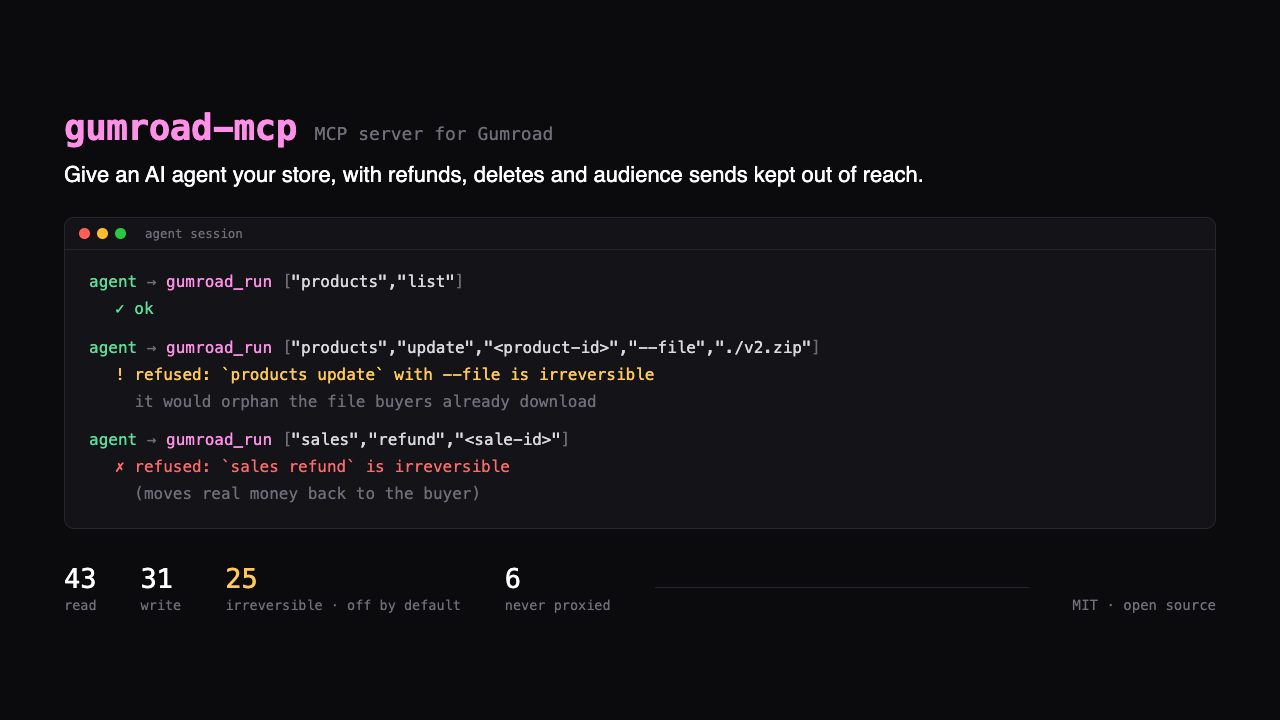
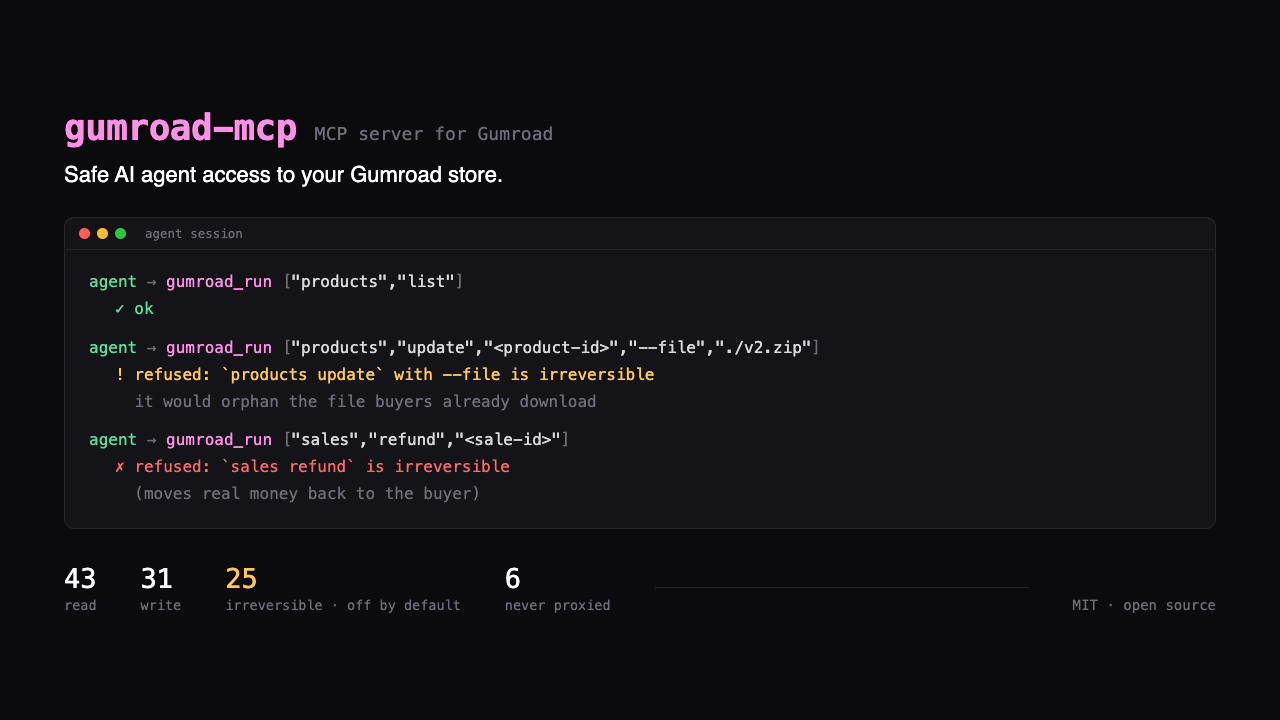
docs(readme): shorten the tagline
"Keeps refunds, deletes and audience sends out of an agent's reach by default"
listed the mechanism in the one line that should say what the thing is. The
image directly underneath already shows those three refusals happening, so the
sentence was spending its length repeating the picture.

Now: safe AI agent access to your Gumroad store. The specifics follow in the
sentence after it, where they belong.

Changed region(s): [[0.0625, 0.2139, 0.7188, 0.275]]

diff --git a/cmd/gumroad-mcp/main.go b/cmd/gumroad-mcp/main.go
@@ -1,5 +1,4 @@
-// Command gumroad-mcp serves a Gumroad store to an AI agent, keeping refunds,
-// deletes and audience sends out of reach by default.
+// Command gumroad-mcp gives an AI agent safe access to a Gumroad store.
 //
 //	gumroad-mcp mcp     MCP server on stdio, gated by risk tier
 //	gumroad-mcp         interactive terminal interface

diff --git a/README.md b/README.md
@@ -10,9 +10,7 @@
 
 </div>
 
-An MCP server for Gumroad that keeps refunds, deletes and audience sends out of an agent's reach by default.
-
-It wraps the official [`gumroad` CLI](https://github.com/antiwork/gumroad-cli) rather than reimplementing the API, classifies all 99 of its commands into risk tiers, and withholds the irreversible ones unless you opt in.
+Safe AI agent access to your Gumroad store. It drives the official [`gumroad` CLI](https://github.com/antiwork/gumroad-cli), classifies all 99 of its commands into risk tiers, and keeps the irreversible ones away from the agent unless you opt in.
 
 ```console
 $ gumroad-mcp doctor
